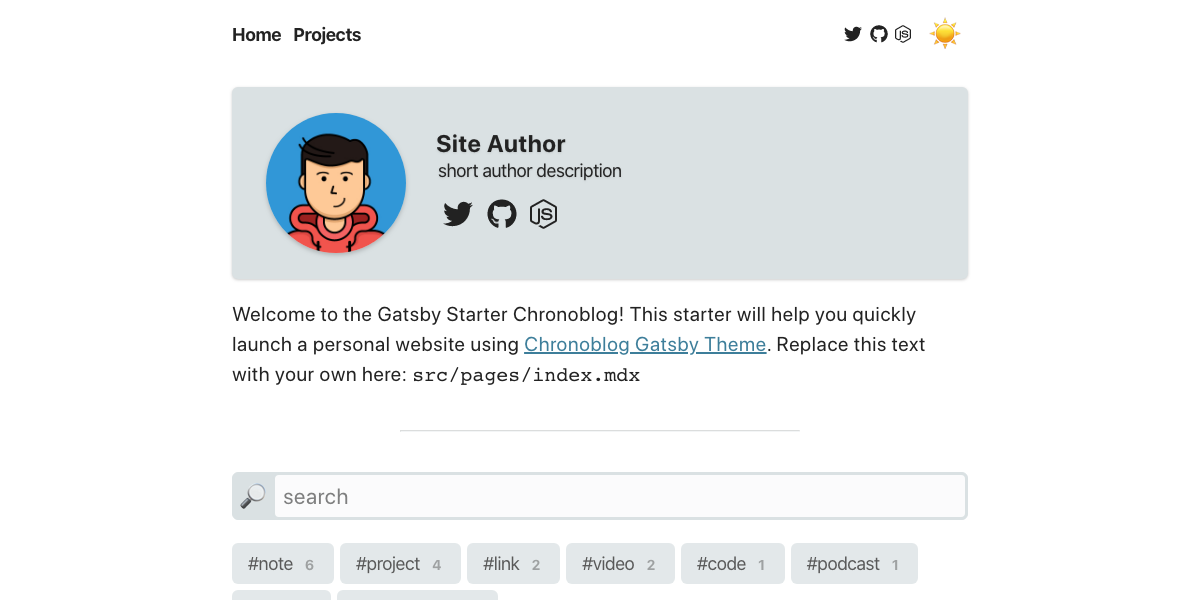
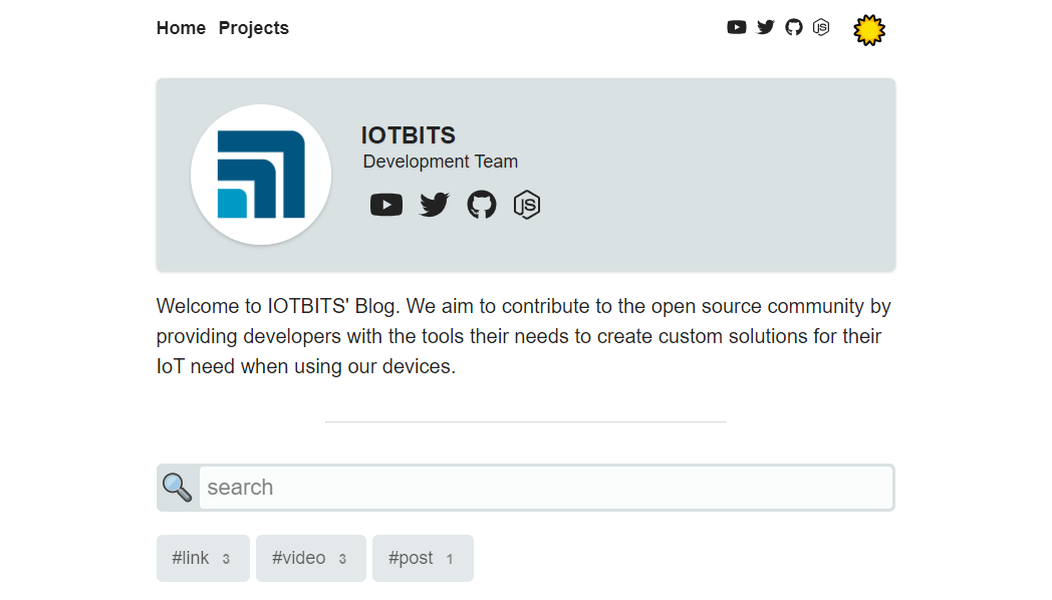
Update

diff --git a/gatsby-config.js b/gatsby-config.js
@@ -1,7 +1,7 @@
 module.exports = {
   siteMetadata: {
     siteTitle: 'IOTBITS Blog',
-    siteDescription: 'Starter for Gatsby Theme Chronoblog',
+    siteDescription: 'IOTBITS articles, notes, videos and links',
     siteImage: '/banner.png', // main image of the site for metadata
     siteUrl: 'https://blog.iotbits.net/',
     pathPrefix: '/',
@@ -19,7 +19,7 @@ module.exports = {
       },
       {
         icon: `twitter`,
-        url: `https://twitter.com/ganevru`
+        url: `https://twitter.com/`
       },
       {
         icon: `github`,
